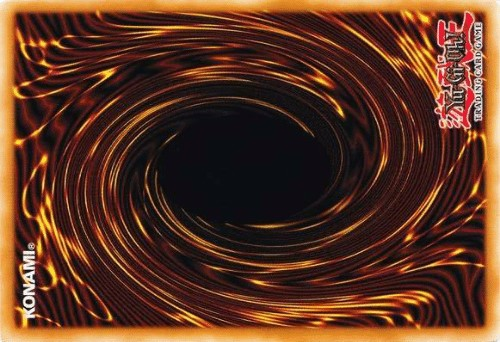
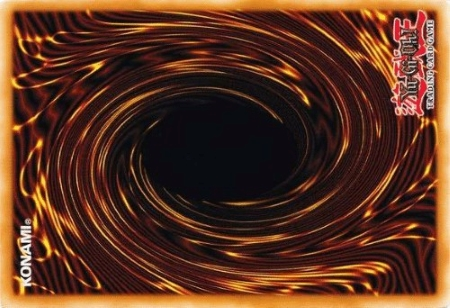
removed larger size card for an appropriate sized one

diff --git a/play.html b/play.html
@@ -78,7 +78,7 @@
             <p>In the red marked area you see that both of these tuner monsters are normal summoned. As per indicated by this players turn.</p>
             <br>
             <h3>Setting Monster cards</h3>
-            <img src="assets/images/set-cards.jpg" alt="set-monster-card">
+            <img src="assets/images/set-card.jpg" alt="set-monster-card">
             <h4>Sideways = Defense Position</h4>
             <p>Set monster cards are useful if you want to place a flip monster card to bait an opponent out.</p>
             <br>
